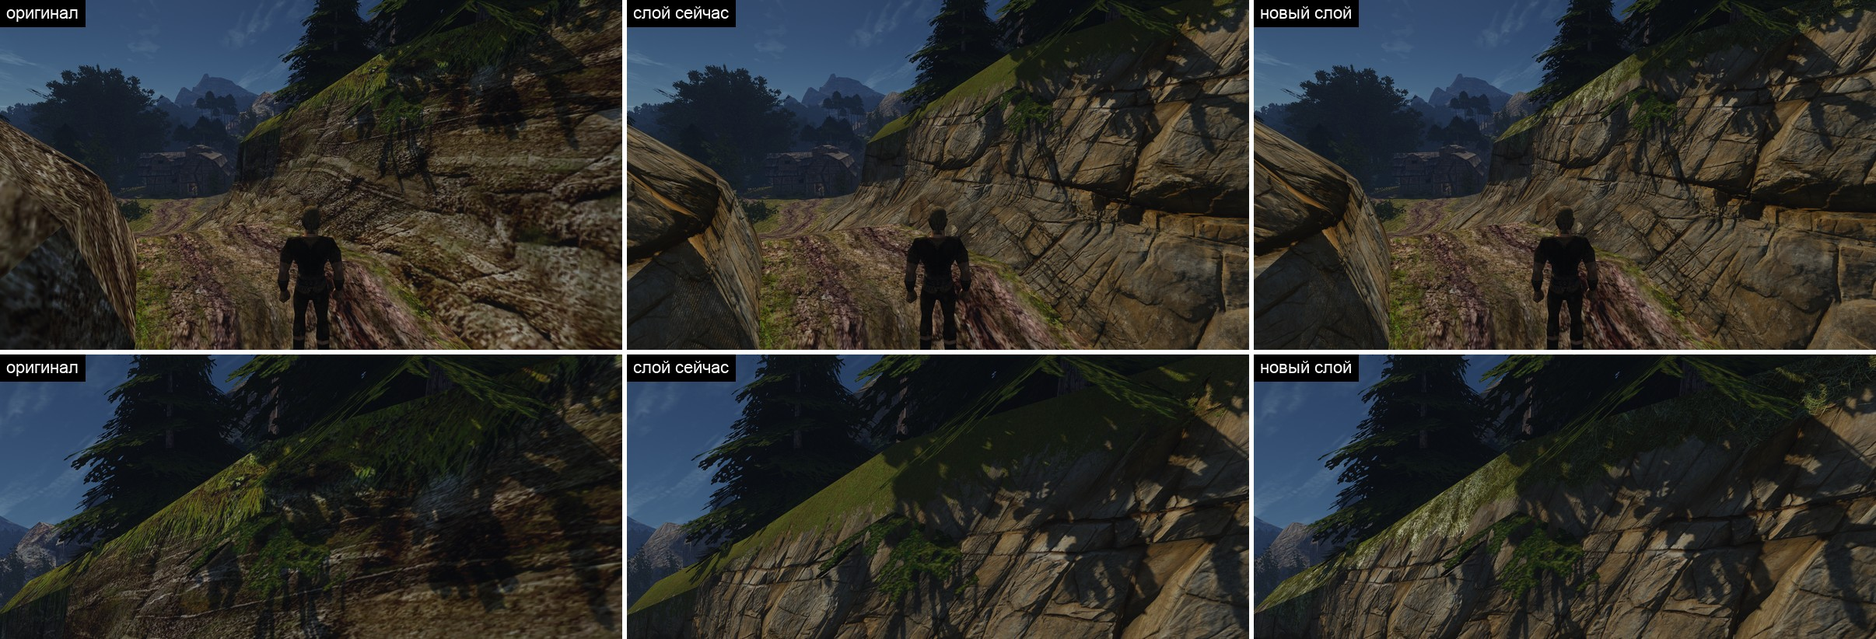
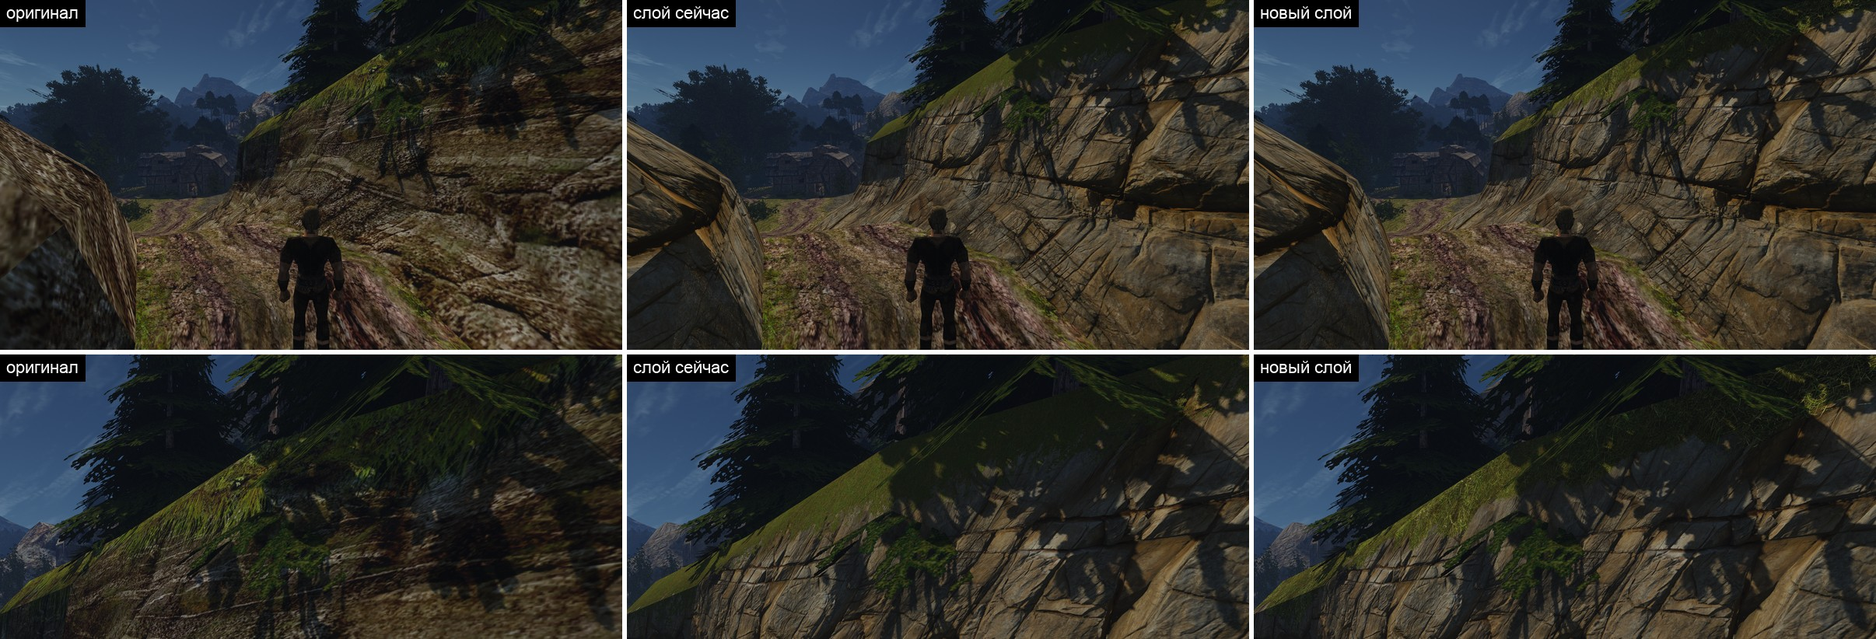
Grass layer, round 3: matte blades, the colour correction from frames, the painted spread on the mask's pixels
- roughness = .85 + .15 of the scan's (mean .96): the white glare of rounds 1 and 2 is gone
- on-screen correction 1.183 / 1.218 / 1.070 and spread exponent 1.17; original / layer on the whole band:
  luma 0.937 on ledge, 1.069 on road-3, 0.981 on both; spread 0.895, 1.142, 1.015
- the clumps that stand out of the 4 m tile are dimmed to a cap in the build, without a re-bake
- painted_stats reads the pixels of the original's grass mask in both bands, as painted_grass does (.803)
- the measure's band test no longer cuts through the shaded pixels of the mask
- note, sheets and status lines: round 3, what is still wrong

diff --git a/scripts/content/landscape_grass_layer.py b/scripts/content/landscape_grass_layer.py
@@ -2,7 +2,7 @@
 """Build a staging set whose grass along the rock edges is baked from 3D grass: the `fringe` layer with depth.
 
     uv run --no-project --with numpy --with pillow --with scipy python \
-        scripts/content/landscape_grass_layer.py rock-grass-2 [--from rock-projection-world] \
+        scripts/content/landscape_grass_layer.py rock-grass-3 [--from rock-projection-world] \
         [--screen R G B] [--contrast K] [--rough-floor F] [--preview DIR]
 
 Step 1 of reports/engine/2026-11-13-grass/README.md. Copies a set with the projected rock and gives the two strip
@@ -13,13 +13,15 @@ straight down (mesh3d/blender/grass_patch.py; baked once into the work folder, `
   sun a flat layer shows no shadow by itself; the painter of the original drew it, and so does this. The shadow is
   the share of the sky a blade sees (the bake's light pass) times a root-to-tip curve, (height / height of the
   canopy around) ** 1.5 over a floor;
+- the clumps that stand out of the tile are dimmed to a cap: one clump much lighter than the rest shows the repeat;
 - the colour is then brought to the original's painted grass in mean (per channel, times the on-screen correction
   `--screen`) and in spread (`--contrast`: the exponent of luma around its mean), both measured on frames of the
   game by landscape_grass_measure.py;
 - the colour's mips are averaged in linear light: the writer of test-material.py averages the encoded values,
   and a texture of bright tips over dark gaps then darkens with distance (by a fifth at 1.5 cm a texel);
 - normal: the bake's, leaned toward the plane; ORM: the sky share as AO, weakened (the shadow is in the colour
-  already, and in the shade the engine would apply it twice), the scan's roughness, and in the blue the height,
+  already, and in the shade the engine would apply it twice), the scan's roughness over a floor that makes the
+  blades matte (as scanned they shine white in our renderer), and in the blue the height,
   which the shader compares with the threshold across the tufts (ranked per mip, landscape_fringe). The height
   there is the blades' plus the canopy's with a trail down the image, down a wall: under a tall clump the
   threshold leaves a tongue of grass half a metre long, not a fringe of single blades.
@@ -40,6 +42,7 @@ import subprocess
 from pathlib import Path
 
 import numpy as np
+from scipy.ndimage import gaussian_filter
 
 HERE = Path(__file__).parent
 SOURCES = Path.home() / '.local/share/gothic-ai/content-sources/landscape-probe'
@@ -53,26 +56,31 @@ FLOOR = .22
 CANOPY_M = .12              # the height share is taken against the tallest grass this near
 UP = .35                    # share of the plane's normal in the layer's
 AO_POWER = .3               # AO = sky share ** .3: on the colour's weight .88 instead of .67
-ROUGH_FLOOR = 0.            # the scan's roughness as it is: .70 on average, blades from .44, and they shine
+ROUGH_FLOOR = .85           # matte blades, .96 on average; the scan's own are .70, from .44, and shine white
 TONGUE_M = .5               # the canopy's trail down the image falls e times over this
 TONGUE = .6                 # its weight against the blades' own height
+CLUMP_M = .15               # the scale a clump is told by: the blur of luma
+CLUMP_CAP = 1.45            # a clump brighter than this many means of the tile is dimmed to it
 # On-screen correction of the mean and the exponent of the spread, by rounds (2026-11-13), measured on the solid
 # band of `ledge` and `road-3` (landscape_grass_measure.py), original against layer, linear display RGB.
 # Round 1: 1.03 / 1.04 / 1.02, the last correction of the scanned layer (landscape_fringe.SCREEN) times its
-# residue, and exponent 1: it gave the tile, at the original's texel (1 cm), the spread of the original's painted
-# grass. Mips averaged encoded, AO = sky share. On the frames original / layer = 1.034 / 1.081 / 0.789, luma
-# 1.063, spread 1.040; but 1.02 on `ledge` against 1.15 on `road-3`, and 1.3-1.4 in the shade of both.
-# Round 2: linear mips, the weaker AO, less straw in the bake, the tongues; the correction is the hue of round 1
-# on `ledge`, the nearer view, 0.961 / 1.022 / 0.725, times .895 for what the mips and the AO were expected to
-# add. Exponent 1.06: with the straw gone the tile's spread at 1 cm fell from .75 of its mean (the painted grass
-# has .754) to .71, and the exponent returns it. On the frames original / layer = 1.053 / 1.019 / 0.857, luma
-# 1.023, spread 1.054; in the shade 1.12-1.18; but luma 0.94 on `ledge` against 1.22 on `road-3`, the blue a
-# quarter over the original's on `ledge`, and the lit grass at 17:30 a quarter brighter than the original's.
-# The cause is ROUGH_FLOOR, measured: the same set with `--rough-floor .85` (matte blades, as the scanned layer's)
-# gives luma 1.14 on `ledge`, 1.29 on `road-3`, 1.22 lit at 17:30, and the blue 1.26, the scanned layer's ratio.
-# The round that follows is that floor and the correction times these ratios; it is the user's to order.
-SCREEN = (.886, .951, .663)
-CONTRAST = 1.06
+# residue, and exponent 1. Mips averaged encoded, AO = sky share. On the frames original / layer = 1.034 / 1.081 /
+# 0.789, luma 1.063, spread 1.040; but 1.02 on `ledge` against 1.15 on `road-3`, and 1.3-1.4 in the shade of both.
+# Round 2: linear mips, the weaker AO, less straw in the bake, the tongues; 0.886 / 0.951 / 0.663 and exponent
+# 1.06. On the frames 1.053 / 1.019 / 0.857, luma 1.023, spread 1.054; but luma 0.94 on `ledge` against 1.22 on
+# `road-3`, the blue a quarter over the original's on `ledge`, the lit grass at 17:30 a quarter brighter: the
+# blades shone white. The same set with `--rough-floor .85` gave luma 1.14 on `ledge` and 1.29 on `road-3`.
+# The numbers of rounds 1 and 2 are on a part of the band: the measure's hue test cut through its shaded pixels.
+# Round 3, on the whole band: ROUGH_FLOOR .85 and the correction of round 2 times the ratios of that matte set,
+# 1.104 / 1.141 / 0.898, gave 0.990 / 0.991 / 1.094 on `ledge` and 1.136 / 1.128 / 1.232 on `road-3`: one
+# correction does not bring both views to the original (why they differ is not measured).
+# The correction below is that one times the geometric mean of the two views, to the power 1 / .85 for the tone
+# curve: luma 0.937 on `ledge`, 1.069 on `road-3`, 0.981 on both; spread 0.895, 1.142, 1.015; in the shade the
+# layer stays 9-16 % darker than the original.
+# Exponent 1.17: the tile's spread of luma at the original's texel (1 cm) is then .80 of its mean, as that of the
+# original's painted grass on the pixels of its mask (.803; painted_stats).
+SCREEN = (1.183, 1.218, 1.07)
+CONTRAST = 1.17
 
 
 def sibling(name: str):
@@ -137,18 +145,29 @@ def spread(value: np.ndarray, exponent: float) -> np.ndarray:
     return value * ((level / middle) ** (exponent - 1))[..., None]
 
 
+def level_clumps(value: np.ndarray, texel_m: float) -> np.ndarray:
+    """Dim the clumps that stand out of the tile: one clump much lighter than the rest is what the eye finds again
+    4 m further along a wall. Of the bake of seed 7 this takes the two lightest, 1.97 and 1.78 of the tile's mean
+    at this scale, down to 1.64 and 1.62 (the cap is on the blur, the clump keeps its bright middle); the third
+    is at 1.53."""
+    low = gaussian_filter(luma(value), CLUMP_M / texel_m, mode='wrap')
+    low /= low.mean()
+    return value * np.minimum(CLUMP_CAP / low, 1)[..., None]
+
+
 def painted_stats(probe, pilot) -> dict:
-    """Mean and spread of luma of the original's painted grass, at its own texel (about 1 cm)."""
+    """Mean and spread of luma of the original's painted grass, at its own texel (about 1 cm): the pixels of
+    landscape_fringe.painted_grass, those its mask holds as grass, the bottom band of NW_NATURE_STEIN_04 too."""
     from PIL import Image
     base = sorted(Path.home().glob('.cache/gothic-ai/base/*/textures'), key=lambda p: p.stat().st_mtime)[-1]
     values = []
     for texture, strip in probe.STRIPS.items():
         with Image.open(base / f'{texture}.dds') as image:
             original = np.asarray(image.convert('RGB'))
-        rows = int(original.shape[0] * strip['top'][0])     # the solid band
-        values.append(luma(pilot.linear(original[:rows])).ravel())
+        mask = probe.grass_mask(original, strip['top'], strip['bottom'])
+        values.append(luma(pilot.linear(original[mask > .5])))
     values = np.concatenate(values)
-    return dict(mean=float(values.mean()), std=float(values.std()))
+    return dict(mean=float(values.mean()), std=float(values.std()), pixels=int(values.size))
 
 
 def preview(folder: Path, albedo: np.ndarray, rank: np.ndarray, pilot) -> None:
@@ -190,6 +209,7 @@ def main() -> int:
     parser.add_argument('--contrast', type=float, default=CONTRAST, help='exponent of the luma spread')
     parser.add_argument('--rough-floor', type=float, default=ROUGH_FLOOR,
                         help='roughness = floor + (1 - floor) * the scan\'s (default: %(default)s)')
+    parser.add_argument('--keep-clumps', action='store_true', help='do not dim the clumps that stand out')
     parser.add_argument('--mask', action='store_true', help='a flat magenta layer without tufts, for the measure')
     parser.add_argument('--preview', type=Path, help='write previews of the tile here and stop: no set')
     args = parser.parse_args()
@@ -214,6 +234,9 @@ def main() -> int:
     light = passes['light'].astype(np.float64)
     shade = shadow(height, light, args.tile / args.size)
     value = spread(passes['colour'].astype(np.float64) * shade[..., None], args.contrast)
+    clumps = gaussian_filter(luma(value), CLUMP_M / (args.tile / args.size), mode='wrap')
+    if not args.keep_clumps:
+        value = level_clumps(value, args.tile / args.size)
     target = fringe_set.painted_grass(probe, pilot)
     factor = target / value.reshape(-1, 3).mean(axis=0) * np.array(args.screen)
     value = np.clip(value * factor, 0, 1)
@@ -224,6 +247,8 @@ def main() -> int:
     report = dict(source=args.source, tufts=TUFTS, ground=GROUND, patch=patch, size=args.size, tile_m=args.tile,
                   curve=CURVE, floor=FLOOR, canopy_m=CANOPY_M, ao_power=AO_POWER, tongue_m=TONGUE_M, tongue=TONGUE,
                   rough_floor=args.rough_floor,
+                  clumps=dict(scale_m=CLUMP_M, cap=CLUMP_CAP, levelled=not args.keep_clumps,
+                              brightest=round(float(clumps.max() / clumps.mean()), 3)),
                   screen=list(args.screen), contrast=args.contrast,
                   painted_grass=target.round(4).tolist(), gains=factor.round(3).tolist(),
                   mean=value.reshape(-1, 3).mean(axis=0).round(4).tolist(),

diff --git a/scripts/content/landscape_grass_measure.py b/scripts/content/landscape_grass_measure.py
@@ -31,10 +31,12 @@ def linear(path: Path) -> np.ndarray:
 
 
 def band(frame: np.ndarray) -> np.ndarray:
-    """Pixels of the magenta band: red and blue well over green, away from its rim."""
+    """Pixels of the magenta band: red and blue well over green, away from its rim. In the shade the sky's light
+    turns the magenta blue, red about half the blue (.45-.55), so the hue test leaves room below that: a test at
+    half cut through the shaded pixels and took a part of them that changed with the roughness of the mask."""
     from scipy.ndimage import binary_erosion
     r, g, b = frame[..., 0], frame[..., 1], frame[..., 2]
-    return binary_erosion((np.minimum(r, b) > 3 * g + .004) & (np.abs(r - b) < .5 * np.maximum(r, b)), iterations=2)
+    return binary_erosion((np.minimum(r, b) > 3 * g + .004) & (np.minimum(r, b) > .3 * np.maximum(r, b)), iterations=2)
 
 
 def stats(frame: np.ndarray, mask: np.ndarray) -> dict:

diff --git a/reports/content/2026-11-landscape-pilot/b3-rock-material.md b/reports/content/2026-11-landscape-pilot/b3-rock-material.md
@@ -2,7 +2,7 @@
 
 Заметка о приёме к шагу В3 [плана ландшафта](../../../docs/landscape-plan.md). Пользователь выбрал его первым шагом вида 2026-11-13 («Да, материал первым») по кадрам и клипу [пробы слоёв](layers-probe.md).
 
-**Состояние (2026-11-13):** задача 1 (проекция по миру) принята ведущим по кадрам 2026-11-13 ([что вышло](#задача-1-что-вышло)); приёмка пользователя — по клипу всего шага. Задача 2 (трава по кромке): слой влит, [что вышло](#задача-2-что-вышло); его материал с глубиной прошёл два круга, [что вышло](#трава-слоя-материал-с-глубиной): это трава с рваным краем, но травинки блестят и на солнце бледные — причина измерена, третий круг ждёт решения пользователя. Сканы для задачи 4 выбраны и скачаны; задача 3 впереди.
+**Состояние (2026-11-13):** задача 1 (проекция по миру) принята ведущим по кадрам 2026-11-13 ([что вышло](#задача-1-что-вышло)); приёмка пользователя — по клипу всего шага. Задача 2 (трава по кромке): слой влит, [что вышло](#задача-2-что-вышло); его материал с глубиной прошёл три круга, [что вышло](#трава-слоя-материал-с-глубиной): это трава с рваным краем, листья матовые, цвет и разброс в ограждениях на обоих видах; [что ещё не так](#что-ещё-не-так) — светлые листья вблизи желтее и ярче мазков оригинала, тень темнее на 9–16 %, повтор 4 м ослаблен, но виден. Приёмка — за ведущим и пользователем. Сканы для задачи 4 выбраны и скачаны; задача 3 впереди.
 
 ## Цель
 
@@ -201,7 +201,7 @@
 
 2026-11-13, ступень 1 [исследования травы](../../engine/2026-11-13-grass/README.md#6-способ-для-нас). Движок и шейдер не тронуты, место слоя (`top`, `bottom`) прежнее: меняются только три карты слоя и его повтор.
 
-**Итог.** Сделано два круга. Слой читается травой с объёмом, край рваный языками по 0,3–0,8 м. Вид не принят мной: травинки блестят, поэтому на солнце трава бледная, как сено, а в 17:30 светится. Причина найдена и измерена пробой (ниже). Третий круг не начат: это решение пользователя.
+**Итог.** Сделано три круга. Слой читается травой с объёмом: листья, кочки, тёмные просветы, край рваный языками по 0,3–0,8 м. В круге 3 листья матовые: бледность на солнце и свечение в 17:30 ушли, трава зелёная. Средний цвет и разброс на `ledge` и `road-3` — в ограждениях: яркость оригинал / слой 0,94 и 1,07, разброс 0,90 и 1,14. [Что ещё не так](#что-ещё-не-так): вблизи светлые листья желтее и на пятую часть ярче мазков оригинала, в тени слой темнее на 9–16 %, скат `road-2` темнее на 20 %, повтор 4 м на длинной грани ослаблен, но не убран.
 
 **Как собрано.**
 - **Запекание** — [`grass_patch.py`](../../../scripts/content/mesh3d/blender/grass_patch.py), Blender 5.2 без окна, Cycles на GPU Mac. Заплатка 4 × 4 м, тор: пучок у границы повторён с другой стороны. Камера ортогональная, смотрит строго вниз ровно на один повтор.
@@ -216,19 +216,99 @@
   - **Мипы цвета усредняются в линейном свете.** Общий писатель DDS усредняет закодированные значения. У травы со светлыми кончиками над тёмными просветами это темнит мипы: 0,88 на втором, 0,79 на четвёртом, 0,75 на последних. Со своим писателем — 0,99–1,00 на всех.
   - **Высота для края** (синий ORM) — высота травинок плюс 0,6 от верха травы со шлейфом вниз по картинке, затухающим в e раз за 0,5 м. Под кочкой порог шейдера оставляет язык травы, а не бахрому из отдельных травинок. Ранжируется на каждом мипе, как у прежнего слоя.
   - **AO** — доля неба в степени 0,3 (среднее по весу цвета 0,88 вместо 0,67): тень уже в цвете, и в тени движок накладывал бы её второй раз.
-  - **Нормаль** — запечённая, на 0,35 довёрнутая к плоскости. **Шероховатость** — скана: в среднем 0,70, у травинок от 0,44.
+  - **Кочки, которые выделяются из повтора, приглушены** (круг 3). Яркость, размытая на 0,15 м, ограничена 1,45 среднего по повтору. Две самые светлые кочки запекания были 1,97 и 1,78 среднего, стали 1,64 и 1,62: ограничено размытие, середина кочки остаётся яркой. Третья — 1,53. Запекание не менялось.
+  - **Разброс** — показатель 1,17 над яркостью вокруг её среднего. С ним разброс повтора при текселе оригинала (1 см) — 0,80 среднего, как у нарисованной травы оригинала: 0,803 на 144 417 пикселях её маски в обеих полосах (те же пиксели, с которых берётся её средний цвет).
+  - **Нормаль** — запечённая, на 0,35 довёрнутая к плоскости.
+  - **Шероховатость** — пол 0,85 плюс 0,15 от скана, в среднем 0,96 (круг 3). У скана как есть — 0,70, у травинок от 0,44: в нашем рендере такие листья дают белый блик, это [причина бледности](#круги-1-и-2-причина-бледности-и-проба) кругов 1 и 2.
 - **Замер** — [`landscape_grass_measure.py`](../../../scripts/content/landscape_grass_measure.py). Набор-маска (`--mask`) красит сплошную полосу слоя пурпурным; её пиксели без каймы в 2 px и есть общие пиксели травы. По ним — среднее по каналам и разброс яркости (стандартное отклонение) в линейном RGB кадра.
+  - **В круге 3 исправлен отбор полосы.** В тени небо делает пурпурный синим: красный — около половины синего. Прежняя проверка «красный и синий различаются меньше чем вдвое» резала теневые пиксели посередине, и в замер попадала их часть, зависящая от шероховатости маски. Теперь берётся вся полоса: 130 524 пикселя на `ledge` вместо 122 061, 55 572 на `road-3` вместо 40 973.
 - Пикселей оригинала в картах нет: из оригинала взят только средний цвет его нарисованной травы.
 
 ![повтор слоя и край на стене](shots/grass-layer-tile.jpg)
 
 Сверху — один повтор, 4 × 4 м. Снизу — макет стены 8 м: сплошная полоса 1 м и зона пучков 1,2 м.
 
-**Размеры.** Повтор 4 м, 1024 px на метр, как у прежнего слоя. Цвет и ORM — DXT1 4096 px по 11,2 МБ, нормаль — DXT5 4096 px, 22,4 МБ. Набор `rock-grass-2` — 85 МиБ: `rock-projection-world` 43 МиБ и слой 43 МиБ. У `rock-fringe-2` — 53 МиБ.
+**Размеры.** Повтор 4 м, 1024 px на метр, как у прежнего слоя. Цвет и ORM — DXT1 4096 px по 11,2 МБ, нормаль — DXT5 4096 px, 22,4 МБ. Набор `rock-grass-3` — 85 МиБ: `rock-projection-world` 43 МиБ и слой 43 МиБ. У `rock-fringe-2` — 53 МиБ.
 
 ### Калибровка цвета
 
-Оригинал — `OPENGOTHIC_CONTENT=`, «сейчас» — `rock-fringe-2`. Среднее R / G / B и яркость — в линейном RGB кадра, отношения — оригинал / слой. Ограждения: средняя яркость в пределах 10 %, разброс — 25 %.
+Оригинал — `OPENGOTHIC_CONTENT=`, «сейчас» — `rock-fringe-2`. Среднее R / G / B и яркость — в линейном RGB кадра, отношения — оригинал / слой. Ограждения: средняя яркость в пределах 10 %, разброс — 25 %. Таблица снята в круге 3 на всей полосе, все наборы — заново. Числа кругов 1 и 2 сняты на части полосы и лежат [ниже](#круги-1-и-2-причина-бледности-и-проба) как история: с этой таблицей их не сравнивать.
+
+| Вид, пикселей | Набор | Среднее R / G / B | Яркость | Разброс | Оригинал / слой, R / G / B | Яркость | Разброс |
+|---|---|---|---|---|---|---|---|
+| `ledge`, 130 524 | оригинал | 0,0504 / 0,0519 / 0,0131 | 0,0487 | 0,0411 | | | |
+| | сейчас | 0,0465 / 0,0479 / 0,0108 | 0,0449 | 0,0244 | 1,083 / 1,083 / 1,214 | 1,085 | 1,682 |
+| | круг 3, первая сборка | 0,0509 / 0,0523 / 0,0120 | 0,0491 | 0,0434 | 0,990 / 0,991 / 1,094 | 0,993 | 0,947 |
+| | **круг 3** | 0,0541 / 0,0553 / 0,0132 | 0,0520 | 0,0460 | 0,931 / 0,937 / 0,997 | 0,937 | 0,895 |
+| `road-3`, 55 572 | оригинал | 0,0708 / 0,0685 / 0,0140 | 0,0650 | 0,0695 | | | |
+| | сейчас | 0,0651 / 0,0647 / 0,0112 | 0,0609 | 0,0475 | 1,087 / 1,058 / 1,246 | 1,067 | 1,462 |
+| | круг 3, первая сборка | 0,0623 / 0,0607 / 0,0114 | 0,0575 | 0,0579 | 1,136 / 1,128 / 1,232 | 1,131 | 1,201 |
+| | **круг 3** | 0,0661 / 0,0642 / 0,0125 | 0,0609 | 0,0608 | 1,071 / 1,067 / 1,118 | 1,069 | 1,142 |
+| оба вида, 186 096 | оригинал | 0,0565 / 0,0568 / 0,0134 | 0,0536 | 0,0518 | | | |
+| | сейчас | 0,0521 / 0,0529 / 0,0109 | 0,0497 | 0,0339 | 1,084 / 1,074 / 1,224 | 1,078 | 1,529 |
+| | круг 3, первая сборка | 0,0543 / 0,0548 / 0,0118 | 0,0516 | 0,0483 | 1,040 / 1,036 / 1,134 | 1,039 | 1,072 |
+| | **круг 3** | 0,0577 / 0,0580 / 0,0130 | 0,0547 | 0,0510 | 0,979 / 0,980 / 1,032 | 0,981 | 1,015 |
+
+- **Первая сборка круга 3.** Пол шероховатости 0,85, показатель 1,17, поправка 1,104 / 1,141 / 0,898: поправка круга 2, умноженная на отношения матовой пробы, поровну между видами (среднее геометрическое `ledge` и `road-3`). Поровну не вышло: `ledge` 0,99, `road-3` 1,13 — за ограждением на 3 пункта. Отношения пробы были сняты на части полосы, без половины тени; на всей полосе виды расходятся иначе.
+- **Круг 3, итог.** Та же сборка с поправкой 1,183 / 1,218 / 1,070: первая, умноженная на среднее геометрическое двух видов (1,061 / 1,057 / 1,161) в степени 1 / 0,85 на кривую тона. Множители запечённого цвета 5,88 / 6,05 / 2,65. Кадр ответил на +7 % в цвете ростом яркости на 6 %. Это вторая сборка и вторая съёмка нового слоя в круге вместо одной заказанной: без неё `road-3` оставался за ограждением.
+- **Ограждения выдержаны** на каждом виде и вместе. Яркость: на `ledge` слой на 6 % светлее оригинала, на `road-3` на 7 % темнее, вместе на 2 % светлее. Разброс: на `ledge` на 12 % выше оригинала, на `road-3` на 12 % ниже, вместе на 1,5 % ниже.
+- **Одной поправкой оба вида к оригиналу не свести.** Между `ledge` и `road-3` остаётся 14 % (0,937 против 1,069), разница поделена поровну. У прежнего слоя разрыва нет (1,085 и 1,067). Причину разрыва я не измерял.
+- **Синий** сошёлся: 1,00 на `ledge`, 1,12 на `road-3`, 1,03 вместе; у прежнего слоя 1,21–1,25.
+- **Разброс** прежнего слоя — 0,59–0,68 от оригинала, нового — 0,88–1,12. Разброс в пределах 16 px (травинки без света и тени): у прежнего слоя 0,39–0,49 от оригинала, у нового 0,81–1,13.
+
+Те же пиксели, поделённые на освещённые и теневые, яркость оригинал / слой:
+
+| Вид, пикселей | Сейчас: свет / тень | Круг 3: свет / тень | Круг 3, весь вид |
+|---|---|---|---|
+| `ledge`, 130 524 | 1,08 / 1,14 | 0,93 / 1,10 | 0,94 |
+| `ledge-near`, 341 993 | 1,08 / 1,20 | 0,93 / 1,16 | 0,94 |
+| `road-3`, 55 572 | 1,06 / 1,13 | 1,06 / 1,16 | 1,07 |
+| `road-2`, 39 162 | 1,19 / 1,05 | 1,20 / 1,09 | 1,19 |
+| `eve-3`, 54 773 | 1,04 / 1,12 | 1,00 / 1,16 | 1,04 |
+
+Оттенок по яркости: четверть самых светлых и четверть самых тёмных пикселей полосы каждого кадра, красный к зелёному (R / G), оригинал / круг 3:
+
+| Вид | Светлая четверть, R / G | Её яркость, слой к оригиналу | Тёмная четверть, R / G |
+|---|---|---|---|
+| `ledge` | 0,92 / 0,97 | +7 % | 0,84 / 0,78 |
+| `ledge-near` | 0,92 / 0,97 | +21 % | 1,16 / 1,10 |
+| `road-3` | 0,98 / 1,02 | −12 % | 0,84 / 0,79 |
+
+### Кадры
+
+Ryzen, 2560×1440, один бинарник. В каждом листе сверху кадр целиком, снизу вырезка с травой: «оригинал | слой сейчас | новый слой». Новый слой — `rock-grass-3`, круг 3. Вид `ledge-near` добавлен в сценарий: камера в 5 м от полосы травы наверху нижней стены уступа.
+
+![ledge](shots/grass-layer-ledge.jpg)
+![ledge-near](shots/grass-layer-ledge-near.jpg)
+![road-2](shots/grass-layer-road-2.jpg)
+![road-3](shots/grass-layer-road-3.jpg)
+![eve-3](shots/grass-layer-eve-3.jpg)
+![arch](shots/grass-layer-arch.jpg)
+
+### Мой разбор, по видам
+
+- **`ledge-near`, 5 м.** Это трава: видны отдельные листья, кочки, тёмные просветы до земли и светлые кончики. С мхом и газоном не спутать. Прежний слой рядом — ровный ковёр. Трава зелёная, серого налёта круга 2 нет. Край свисает языками до 0,8 м, по краю языка — отдельные травинки. **Что не так:** светлые листья тонкие и жёлто-соломенные, между ними тёмно-зелёное. У оригинала наоборот: мазки зелёные, между ними бурая земля. Вблизи слой контрастнее оригинала: разброс вида выше на 41 %, светлая четверть ярче на 21 %.
+- **`ledge`, 14 м.** Край рваный и издали: языки и выемки по 0,3–0,8 м, прямой линии по ребру нет. Тон не один: светлые кочки, тёмные провалы. Цвет зелёный с жёлто-зелёными кочками, по среднему на 6 % светлее оригинала. **Что не так:** светлые кочки идут по длинной грани с шагом повтора — три похожих через 4 м. Приглушение сняло самую яркую, ритм остался и виден тому, кто ищет. Языки короче и шире мазков оригинала, свисающих на 0,5–1 м.
+- **`road-2`.** На скате под ёлкой видны травинки и рваный нижний край с языками. **Что не так:** под острым углом снизу листья — сетка тонких ярких соломин по тёмному, у оригинала там сплошные зелёные мазки. В среднем освещённая трава темнее оригинала на 20 %, как у прежнего слоя (1,19). Этот скат в круг не входил.
+- **`road-3`.** Полоса у кромки жёлто-зелёная с тёмными просветами, край рваный; издали по тону близка к оригиналу, на 7 % темнее. **Что не так:** освещённый скат оригинала ярче и ровнее по цвету: светлая четверть у нас темнее на 12 %. Справа вверху, в упор к солнцу, пятно соломенное.
+- **`eve-3`, 17:30.** Свечения нет: освещённое пятно по яркости равно оригиналу (1,00), серебра нет. В тени трава тёмная, не чёрная. **Что не так:** в тени она темнее оригинала на 16 %.
+- **`arch`.** Слоя в кадре нет, как и у прежнего: три кадра совпадают.
+
+**Против списка исследования.** Тёмные просветы и светлые кончики есть. Трава, а не мох и не газон. Нижний край рваный издали. Пятна ломают один тон. В полдень и в 17:30 слой не светится и не чернеет. Повтор 4 м на `ledge` ослаблен, но заметен тому, кто ищет.
+
+### Что ещё не так
+
+1. **Оттенок по яркости перевёрнут.** У оригинала светлое зеленее, тёмное бурее; у слоя светлые листья желтее (R / G выше на 4–5 %), тёмные просветы зеленее (ниже на 5–8 %). Отсюда «солома по тёмной зелени» вблизи. Множитель на канал этого не правит. Правит наклон оттенка по яркости в сборке: красный, умноженный на (яркость / средняя)^−0,05, по числам `ledge-near` даёт 0,96 в светлой четверти и 1,07 в тёмной при нужных 0,95 и 1,05. Не делал: это новая ручка, а не поправка среднего, и в кадре она не проверена.
+2. **Вблизи слой контрастнее оригинала**: на `ledge-near` разброс выше на 41 %, светлые листья ярче на 21 %. Показатель разброса подобран при текселе оригинала (1 см); слой с текселем 1 мм вблизи показывает каждую травинку. На `ledge` и `road-3` разброс в ограждениях.
+3. **В тени слой темнее оригинала на 9–16 %** на всех видах; у прежнего слоя 5–20 %.
+4. **Освещённый скат `road-2` темнее на 20 %**, как у прежнего слоя. В круг не входил.
+5. **Между `ledge` и `road-3` 14 % яркости**: одна поправка делит их поровну, но не сводит. Причина не измерена.
+6. **Повтор 4 м** на длинной грани `ledge`: самая светлая кочка приглушена в сборке, ритм светлых кочек остался. Убрать его совсем — это другая расстановка пучков, то есть новое запекание; в круг не входило.
+7. **Языки короче и шире мазков оригинала, листья лежат, а не свисают.** Это предел вида сверху; свисающие листья — ступень 2, пучки.
+
+### Круги 1 и 2: причина бледности и проба
+
+Числа этого раздела сняты на части полосы (122 061 пиксель на `ledge`, 40 973 на `road-3`): прежний отбор полосы терял часть тени. Между собой они сравнимы, с таблицей круга 3 — нет.
 
 | Вид, пикселей | Набор | Среднее R / G / B | Яркость | Разброс | Оригинал / слой, R / G / B | Яркость | Разброс |
 |---|---|---|---|---|---|---|---|
@@ -249,11 +329,10 @@
 | | проба без блеска | 0,0513 / 0,0532 / 0,0108 | 0,0497 | 0,0412 | 1,222 / 1,177 / 1,312 | 1,189 | 1,273 |
 
 - **Круг 1.** Экранная поправка 1,03 / 1,04 / 1,02, показатель разброса 1. Множители запечённого цвета 5,40 / 5,82 / 2,80.
-- **Круг 2.** Поправка 0,886 / 0,951 / 0,663, показатель 1,06, множители 4,89 / 5,27 / 1,87. Поправка — оттенок круга 1 на `ledge` и 0,895 на то, что добавят линейные мипы и слабое AO. Показатель возвращает разброс повтора при текселе оригинала (1 см): без соломы он упал с 0,75 до 0,71 среднего, у нарисованной травы 0,754.
+- **Круг 2.** Поправка 0,886 / 0,951 / 0,663, показатель 1,06, множители 4,89 / 5,27 / 1,87. Поправка — оттенок круга 1 на `ledge` и 0,895 на то, что добавят линейные мипы и слабое AO.
 - **Ограждения у круга 2.** По двум видам вместе выдержаны: яркость 2 %, разброс 5 %. По видам порознь — нет: на `ledge` слой на 6 % светлее оригинала, на `road-3` на 18 % темнее, и разброс там ниже на 27 %.
-- Разброс прежнего слоя — 0,57–0,61 от оригинала, у нового 0,73–1,17.
 
-Те же пиксели, поделённые на освещённые и теневые, яркость оригинал / слой:
+Свет и тень, яркость оригинал / слой:
 
 | Вид | Круг 1: свет / тень | Круг 2: свет / тень | Проба без блеска: свет / тень |
 |---|---|---|---|
@@ -263,49 +342,19 @@
 | `road-2` | 1,20 / 1,37 | 1,40 / 1,07 | 1,47 / 1,18 |
 | `eve-3` | 0,84 / 1,30 | 0,80 / 1,16 | 1,22 / 1,30 |
 
-### Кадры
-
-Ryzen, 2560×1440, один бинарник. В каждом листе сверху кадр целиком, снизу вырезка с травой: «оригинал | слой сейчас | новый слой». Новый слой — `rock-grass-2`, круг 2. Вид `ledge-near` добавлен в сценарий: камера в 5 м от полосы травы наверху нижней стены уступа.
-
-![ledge](shots/grass-layer-ledge.jpg)
-![ledge-near](shots/grass-layer-ledge-near.jpg)
-![road-2](shots/grass-layer-road-2.jpg)
-![road-3](shots/grass-layer-road-3.jpg)
-![eve-3](shots/grass-layer-eve-3.jpg)
-![arch](shots/grass-layer-arch.jpg)
-
-### Мой разбор, по видам
-
-- **`ledge-near`, 5 м.** Это трава: видны отдельные листья, кочки, тёмные просветы до земли и светлые кончики. С мхом и газоном не спутать. Прежний слой рядом — ровный ковёр. Край свисает языками до 0,8 м, по краю языка — отдельные травинки. **Что не так:** освещённая трава бледная, жёлто-серая, как сено; у оригинала она сочно-зелёная с жёлто-зелёными мазками. Листья крупнее и реже мазков оригинала.
-- **`ledge`, 14 м.** Край рваный и издали: языки и выемки по 0,3–0,8 м, прямой линии по ребру больше нет. Тон не один: кочки, тёмные провалы, светлые пятна. **Что не так:** та же бледность на солнце. Самая светлая кочка с её языком узнаётся на длинной грани дважды — повтор 4 м виден тому, кто ищет; блеск его подчёркивает. Языки короче и шире мазков оригинала, свисающих на 0,5–1 м.
-- **`road-2`.** На скате под ёлкой видны травинки и рваный нижний край с языками. Освещённое пятно жёлто-зелёное, близко к оригиналу. **Что не так:** на скате, снятом снизу под острым углом, листья выглядят крупной соломой. В числах освещённая трава темнее оригинала в 1,4 раза; у прежнего слоя там же 1,19.
-- **`road-3`.** Полоса у кромки зелёная с тёмными просветами, край рваный. **Что не так:** трава темнее оригинала на 18 %: у него освещённый скат ярко-жёлто-зелёный. Справа вверху скат в упор к солнцу светится бледным соломенным пятном.
-- **`eve-3`, 17:30.** В тени трава тёмная, не чёрная (оригинал / слой 1,16). **Что не так:** освещённое низким солнцем пятно слева серебристо-белое, на четверть ярче оригинала. Рядом с травой земли оно светится.
-- **`arch`.** Слоя в кадре нет, как и у прежнего: три кадра совпадают.
-
-**Против списка исследования.** Тёмные просветы и светлые кончики есть. Трава, а не мох и не газон. Нижний край рваный издали. Пятна ломают один тон. Повтор 4 м заметен на `ledge` по одной светлой кочке. Ровного света рядом с травой земли нет: днём на стене слой бледнее, в 17:30 на солнце светится, на скатах у дороги темнее оригинала.
-
-### Причина и проба
-
 Круг 1 показал четыре дефекта. Солома крупными светлыми пятнами читалась сеном и выдавала повтор. В тени слой был в 1,3–1,4 раза темнее оригинала. Синий канал был на 27 % выше. Дальние виды были темнее ближних. Круг 2 убавил солому (сухих травинок меньше, их цвет к цвету зелёной — 1,5 / 1,28 / 0,6 вместо 1,9 / 1,45 / 0,62), ослабил AO, усреднил мипы в линейном свете, удлинил языки и снизил синий в цвете на 35 %.
 
-Тень исправилась: 1,04–1,18. Остальное — нет. Синий в кадре почти не изменился (0,0181 → 0,0173 на `ledge`), хотя в текстуре его стало на треть меньше. Разрыв между `ledge` и `road-3` вырос с 13 до 30 %. Значит, синий и яркость на стене идут не от цвета текстуры.
+Тень исправилась: 1,04–1,18. Остальное — нет. Синий в кадре почти не изменился (0,0181 → 0,0173 на `ledge`), хотя в текстуре его стало на треть меньше. Разрыв между `ledge` и `road-3` вырос с 13 до 30 %. Значит, синий и яркость на стене шли не от цвета текстуры.
 
 Сравнение карт показало разницу: шероховатость прежнего слоя 0,945 с разбросом 0,02, нового — 0,70, у травинок от 0,44. Нормали по силе одинаковы. Гладкие травинки дают блик неба и солнца: он белый, поэтому поднимает синий, обесцвечивает траву и зависит от угла между солнцем, стеной и камерой.
 
-**Проба.** Тот же набор с одной правкой: `--rough-floor .85`, шероховатость 0,96 в среднем (набор `rock-grass-2r`, цвет байт в байт тот же). «Новый слой» — круг 2:
+**Проба.** Набор круга 2 с одной правкой: `--rough-floor .85`, шероховатость 0,96 в среднем (набор `rock-grass-2r`, цвет байт в байт тот же). На этом листе «новый слой» — круг 2, не круг 3:
 
 ![круг 2 и проба без блеска: ledge-near и eve-3](shots/grass-layer-gloss.jpg)
 
 - Трава стала зелёной, бледность и серебристое пятно в 17:30 ушли.
 - Синий на `ledge`: оригинал / слой 1,26 — столько же, сколько у прежнего слоя (1,22). Лишний синий был бликом.
 - Освещённая трава в 17:30: с 0,80 до 1,22 — свечения нет.
-- Разрыв между `ledge` и `road-3` — 13 % вместо 30 %.
-- Без блика слой темнее оригинала на всех видах: 1,14–1,29. Блик давал на стене около пятой части яркости, и поправка круга 2, снятая по `ledge`, её вычла.
+- Без блика слой был темнее оригинала на всех видах: 1,14–1,29. Блик давал на стене около пятой части яркости, и поправка круга 2, снятая по `ledge`, её вычла.
 
-**Что предлагаю третьим кругом — одна сборка без запекания:** шероховатость с полом 0,85 и поправка цвета, умноженная на отношения пробы по двум видам (1,222 / 1,177 / 1,312), то есть 1,08 / 1,12 / 0,87. Если цвет ответит линейно, яркость оригинал / слой будет 0,96 на `ledge`, 1,08 на `road-3`, 0,97 на `ledge-near`, 1,02 на свету в 17:30; разброс на `road-3` — 1,23, у края ограждения.
-
-**Что этот круг не исправит.**
-- `road-2`: освещённый скат останется темнее оригинала примерно в 1,2 раза, как у прежнего слоя.
-- Языки короче и шире мазков оригинала, листья крупнее. Это предел вида сверху; длинные свисающие листья — ступень 2, пучки.
-- Одна светлая кочка выдаёт повтор на длинной стене. Без блика она слабее, но остаётся.
+Круг 3 — эта проба с пересчитанной поправкой цвета: [калибровка](#калибровка-цвета).

diff --git a/docs/landscape-plan.md b/docs/landscape-plan.md
@@ -108,7 +108,7 @@ Claude, по [конвейеру ремастера](remaster-pipeline.md); ка
 | № | Что | Состояние |
 |---|---|---|
 | 1 | Проекция материала по миру: две главные плоскости нормали, пласты горизонтальны на любой грани, без швов и растяжения развёртки оригинала | код и кадры 2026-11-13 ([что вышло](../reports/content/2026-11-landscape-pilot/b3-rock-material.md#задача-1-что-вышло)); принята ведущим по кадрам 2026-11-13, пользователь принимает шаг по клипу |
-| 2 | Трава по кромке вторым слоем; место слоя берётся из развёртки полос оригинала (`NW_NATURE_STEIN_02/04`) | слой влит 2026-11-13 ([что вышло](../reports/content/2026-11-landscape-pilot/b3-rock-material.md#задача-2-что-вышло)); вид ведущим не принят: ровный светлый ковёр с прямым краем. Материал слоя с глубиной (запекание с 3D-травы, повтор 4 м) прошёл два круга 2026-11-13 ([что вышло](../reports/content/2026-11-landscape-pilot/b3-rock-material.md#трава-слоя-материал-с-глубиной)): трава с рваным краем, но травинки блестят и на солнце бледные; причина измерена, третий круг ждёт решения пользователя. Дальше — пучки по кромке по [исследованию травы](../reports/engine/2026-11-13-grass/README.md#6-способ-для-нас) |
+| 2 | Трава по кромке вторым слоем; место слоя берётся из развёртки полос оригинала (`NW_NATURE_STEIN_02/04`) | слой влит 2026-11-13 ([что вышло](../reports/content/2026-11-landscape-pilot/b3-rock-material.md#задача-2-что-вышло)); вид ведущим не принят: ровный светлый ковёр с прямым краем. Материал слоя с глубиной (запекание с 3D-травы, повтор 4 м) прошёл три круга 2026-11-13 ([что вышло](../reports/content/2026-11-landscape-pilot/b3-rock-material.md#трава-слоя-материал-с-глубиной)): трава с рваным краем, листья матовые, цвет и разброс в ограждениях на обоих видах; вблизи светлые листья желтее и ярче мазков оригинала, повтор 4 м ослаблен, но виден ([что ещё не так](../reports/content/2026-11-landscape-pilot/b3-rock-material.md#что-ещё-не-так)); приёмка — за ведущим и пользователем. Дальше — пучки по кромке по [исследованию травы](../reports/engine/2026-11-13-grass/README.md#6-способ-для-нас) |
 | 3 | Вариация без разрыва пластов: крупный шум оттенка, тот же материал в масштабе ×4 с расстоянием | — |
 | 4 | Набор сканов для пяти текстур (95 % скал острова) и их родни, цвет по кадрам игры, материал травы кромки | сканы выбраны и скачаны 2026-11-13; сборка и цвет — после задачи 1 |
 
@@ -153,3 +153,4 @@ Claude, по [конвейеру ремастера](remaster-pipeline.md); ка
 - **2026-11-13.** В3, задача 2: трава по кромке — поле `"fringe"` записи рядом с `projection`, место по v полос оригинала, рваный край по высоте слоя (синий ORM, ранжирован на каждом мипе), глубина полосы блуждает по миру, но не шире записи; карты слоя — после ведер в массивах bindless, без него — слоты 23–25. G-буфер на `road-3` +0,00–0,01 мс к проекции; цвет травы после одного круга поправки в 6–8 % от нарисованной по R и G. Задача 1 принята ведущим по кадрам. Задача 2 ждёт приёмки — [заметка](../reports/content/2026-11-landscape-pilot/b3-rock-material.md#задача-2-что-вышло).
 - **2026-11-13.** Слой травы по кромке влит (#1318), но выглядит ровным светлым ковром. Пользователь попросил исследование, как делают современную траву: [заметка](../reports/engine/2026-11-13-grass/README.md). Главное: объём дают затемнение у корня с разбросом по пучкам, цвет основания от земли, сглаженные нормали и просвет; скан без теней между травинками плоский по построению; край и силуэт требуют пучков-мешей. Способ — три ступени: материал слоя с запечённой глубиной, проба пучков по кромке без правок движка, система травы В5.
 - **2026-11-13.** В3, трава слоя, ступень 1: материал слоя запечён в Blender с 3D-пучков видом сверху — затемнение от корня к кончику и тень между травинками в цвете, пятна и кочки в повторе 4 м, высота со шлейфом вниз для языков по краю, мипы цвета в линейном свете. Набор `rock-grass-2`, движок не тронут. После двух кругов слой читается травой с рваным краем. Яркость по двум видам вместе в 2 % от оригинала, но порознь слой на 6 % ярче на уступе и на 18 % темнее у дороги; на солнце трава бледная, в 17:30 светится. Причина — шероховатость скана 0,70: проба с матовыми травинками убирает бледность и свечение. Третий круг (шероховатость и поправка цвета) ждёт решения пользователя — [заметка](../reports/content/2026-11-landscape-pilot/b3-rock-material.md#трава-слоя-материал-с-глубиной).
+- **2026-11-13.** В3, трава слоя, круг 3 по решению ведущего: листья матовые (пол шероховатости 0,85), поправка цвета пересчитана по кадрам, самая светлая кочка повтора приглушена в сборке; запекание прежнее, набор `rock-grass-3`. Бледность и свечение в 17:30 ушли. Яркость оригинал / слой — 0,94 на уступе и 1,07 у дороги, разброс 0,90 и 1,14: ограждения выдержаны на обоих видах, 14 % между видами поделены поровну. Замер исправлен: отбор полосы терял часть тени, поэтому числа кругов 1 и 2 с новыми не сравнимы. Не так: вблизи светлые листья желтее и на 21 % ярче мазков оригинала, в тени слой темнее на 9–16 %, повтор 4 м ослаблен, но виден — [заметка](../reports/content/2026-11-landscape-pilot/b3-rock-material.md#что-ещё-не-так).

diff --git a/reports/engine/2026-11-13-grass/README.md b/reports/engine/2026-11-13-grass/README.md
@@ -2,7 +2,7 @@
 
 Исследование к шагам В3 (трава по кромке скал) и В5 (растительность) [плана ландшафта](../../../docs/landscape-plan.md). Пользователь попросил его 2026-11-13, после первых кадров [слоя травы по кромке](../../content/2026-11-landscape-pilot/b3-rock-material.md#задача-2-что-вышло): слой работает, но выглядит ровным светлым ковром.
 
-**Состояние (2026-11-13):** три ветки поиска закончены, сырые заметки — в [`research/`](research/README.md). Доклад о траве Ghost of Tsushima и слайды Horizon по свету первоисточником не прочитаны: всё о них взято из пересказов и помечено. Способ для нас ниже — предложение. Ступень 1 прошла два круга: слой запечён с 3D-травы и читается травой с рваным краем, но травинки блестят и на солнце бледные. Причина измерена, третий круг ждёт решения пользователя — [что вышло](../../content/2026-11-landscape-pilot/b3-rock-material.md#трава-слоя-материал-с-глубиной). Ступени 2 и 3 не начаты.
+**Состояние (2026-11-13):** три ветки поиска закончены, сырые заметки — в [`research/`](research/README.md). Доклад о траве Ghost of Tsushima и слайды Horizon по свету первоисточником не прочитаны: всё о них взято из пересказов и помечено. Способ для нас ниже — предложение. Ступень 1 прошла три круга: слой запечён с 3D-травы, читается травой с рваным краем, листья матовые, цвет и разброс в ограждениях на обоих видах; вблизи светлые листья желтее и ярче мазков оригинала, повтор 4 м ослаблен, но виден. Приёмка — за ведущим и пользователем — [что вышло](../../content/2026-11-landscape-pilot/b3-rock-material.md#трава-слоя-материал-с-глубиной). Ступени 2 и 3 не начаты.
 
 ## Коротко
 
@@ -86,7 +86,7 @@
 Три ступени, каждая судится по кадрам отдельно.
 
 1. **Материал слоя.** Запечь траву в Blender с модели, а не брать плоский скан: вид сверху на пучки `grass_medium_01` (CC0, уже скачана) даёт цвет с тенью между травинками, высоту и нормали с длинными листьями. Цвет и разброс привести к нарисованной траве оригинала на экране: среднее и контраст. Добавить крупный шум оттенка и сухие пятна.
-   - **Состояние (2026-11-13):** два круга сделаны, вид мной не принят — [что вышло](../../content/2026-11-landscape-pilot/b3-rock-material.md#трава-слоя-материал-с-глубиной). Урок для следующих ступеней: шероховатость скана травы (в среднем 0,70, у травинок от 0,44) в нашем рендере даёт белый блик. Трава должна быть матовой (0,9 и выше), иначе на солнце она бледнеет, а цвет не сводится с оригиналом одним множителем.
+   - **Состояние (2026-11-13):** три круга сделаны, в третьем листья матовые и цвет сведён с оригиналом в ограждениях — [что вышло](../../content/2026-11-landscape-pilot/b3-rock-material.md#трава-слоя-материал-с-глубиной), [что ещё не так](../../content/2026-11-landscape-pilot/b3-rock-material.md#что-ещё-не-так). Урок для следующих ступеней: шероховатость скана травы (в среднем 0,70, у травинок от 0,44) в нашем рендере даёт белый блик. Трава должна быть матовой (0,9 и выше), иначе на солнце она бледнеет, а цвет не сводится с оригиналом одним множителем.
 2. **Пучки по кромке, проба без правок движка.** Три–пять вариантов пучка по 20–36 треугольников из тех же травинок, листья 20–50 см, часть свисает. Затемнение у корня — в текстуре, нормали вершин развёрнуты вверх и наружу в самой модели. Расставить по верхнему краю полос `STEIN_02/04` в видах пилота слоем предметов. Первым делом проверить два «не проверено» из раздела 4.
 3. **Система травы** (шаг В5): травинки в кольце у камеры, цвет основания от земли, ветер в вершинах с векторами движения, просвет для солнца, тени только получать. Проектируется отдельной заметкой после ступени 2.
 
